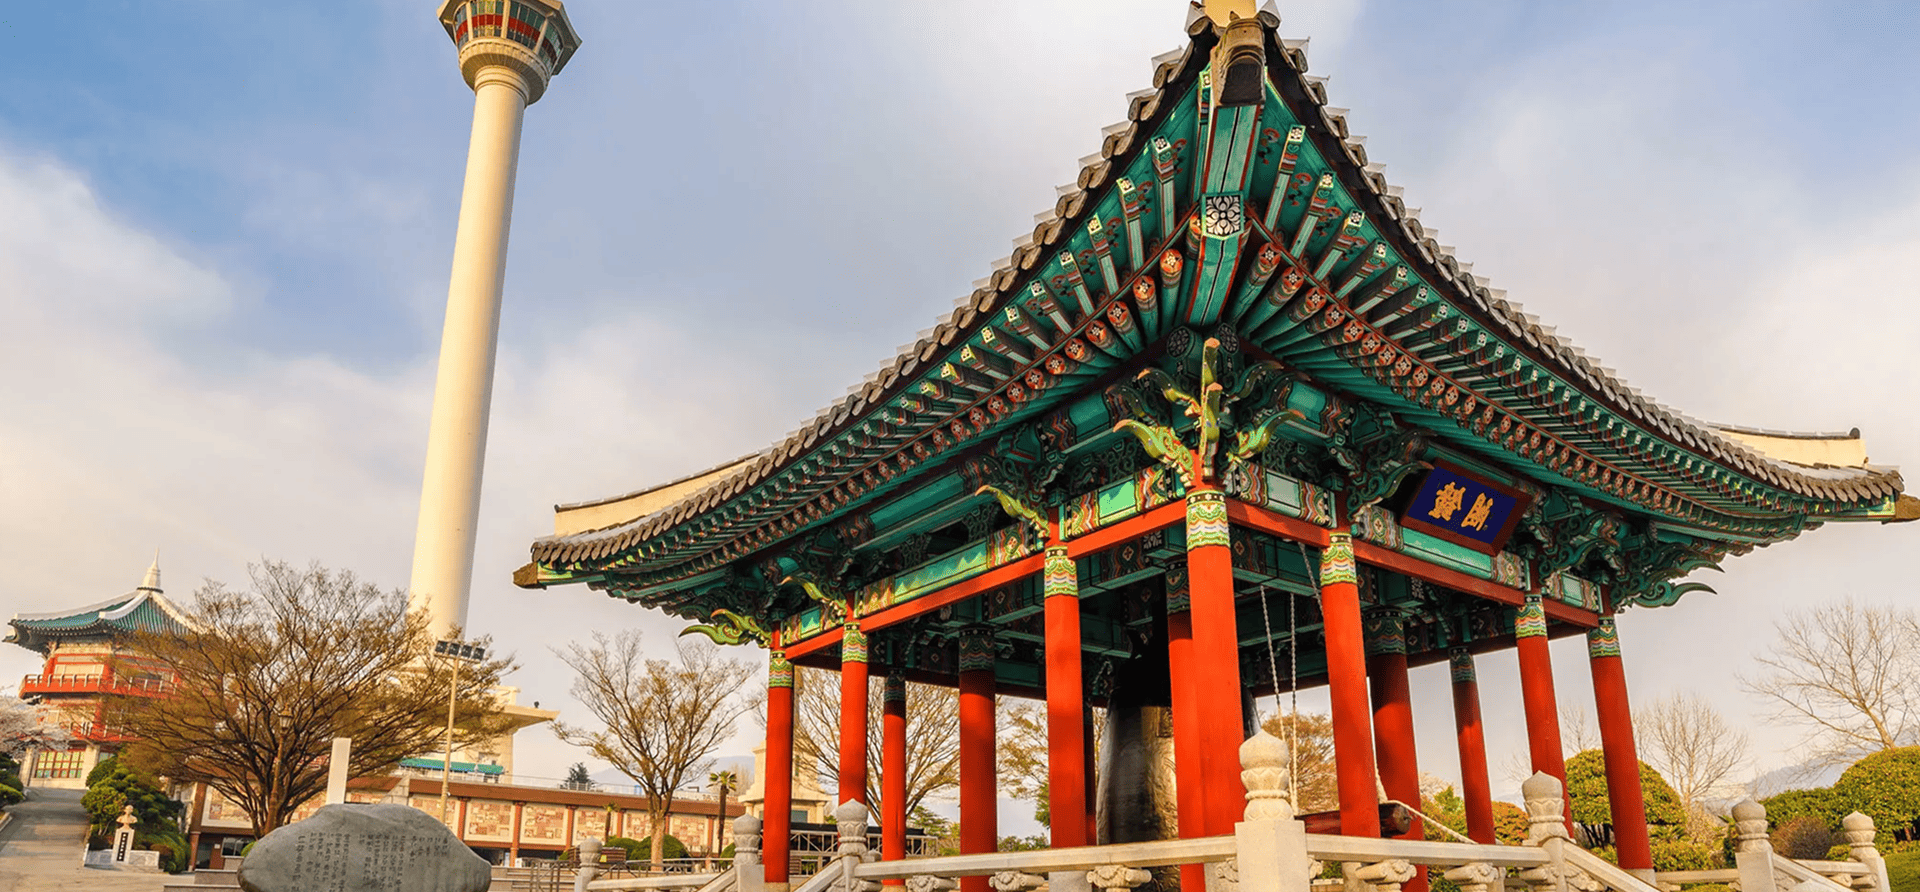
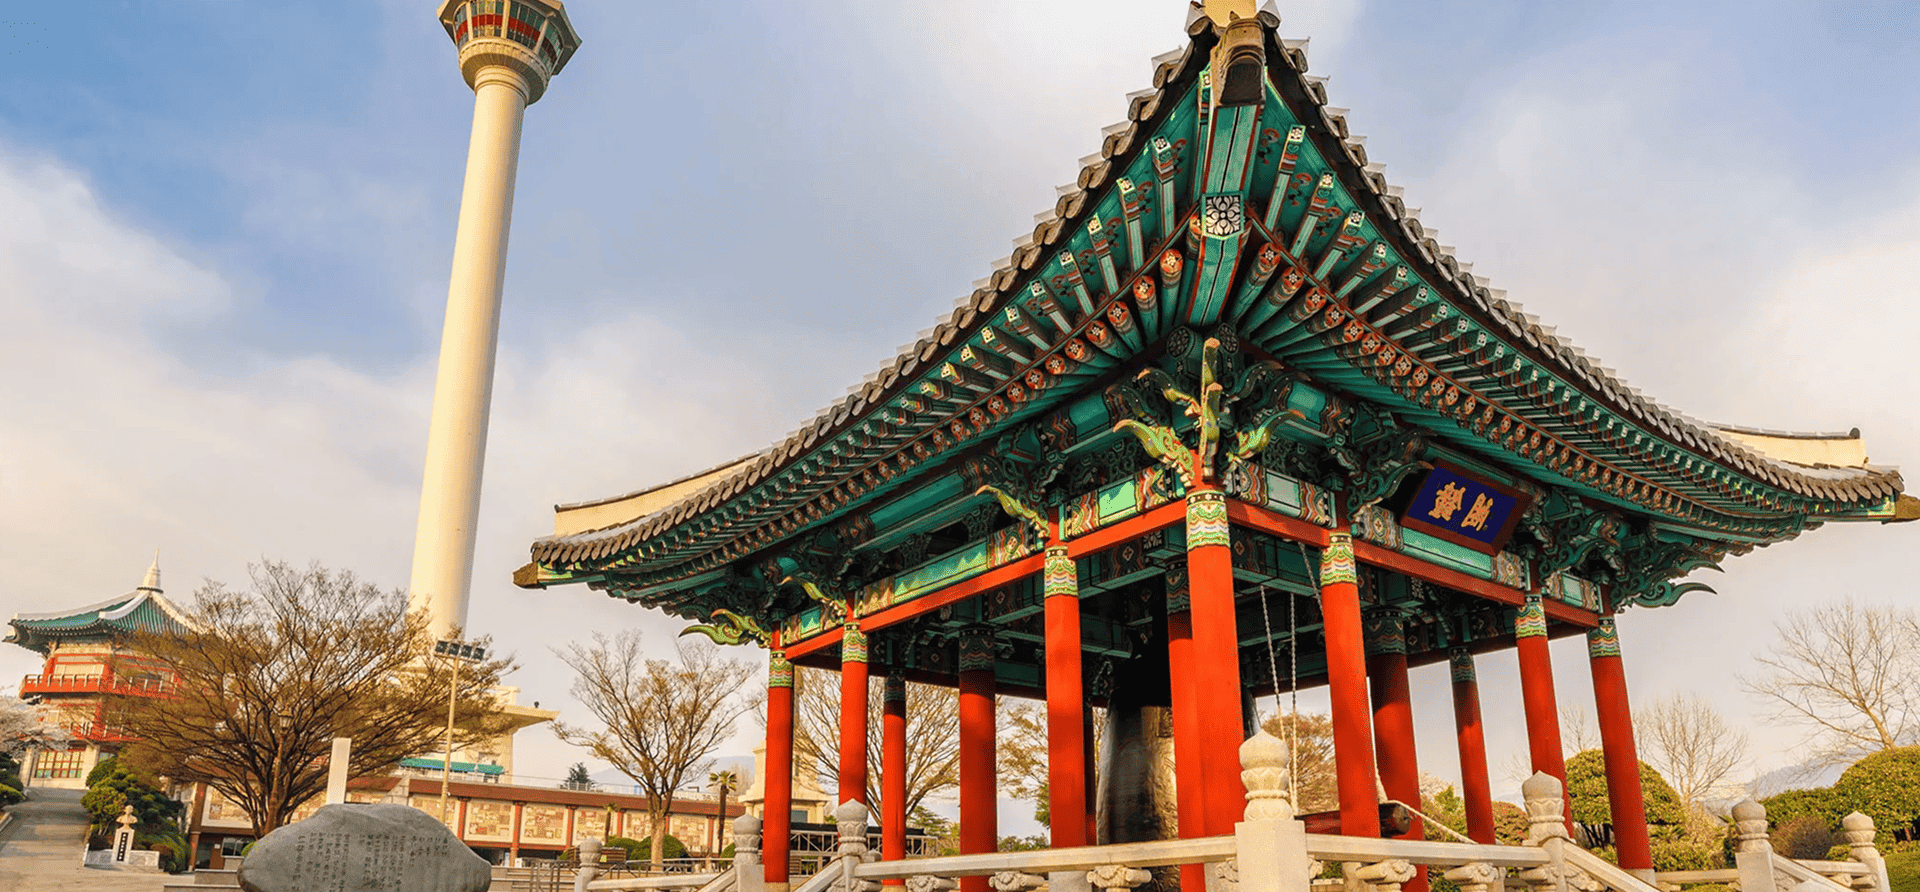
feat: Optimize loading `hero-bg` photo on main page

diff --git a/components/Section/Hero.vue b/components/Section/Hero.vue
@@ -125,11 +125,12 @@ const nav = computed(() => [
       </div>
     </UContainer>
     <div class="pointer-events-none absolute inset-0 z-[-2]">
-      <NuxtImg
-        src="/images/hero-bg.png"
-        alt="hero"
-        class="size-full object-cover"
-        format="webp"
+      <img 
+        src="/images/hero-bg-desktop.webp" 
+        srcset="/images/hero-bg-mobile.webp 640w, /images/hero-bg-tablet.webp 1280w, /images/hero-bg-desktop.webp 1920w"
+        sizes="(max-width: 640px) 640px, (max-width: 1280px) 1280px, 1920px"
+        alt="Hero background" 
+        class="size-full object-cover" 
         loading="lazy"
       />
       <div
